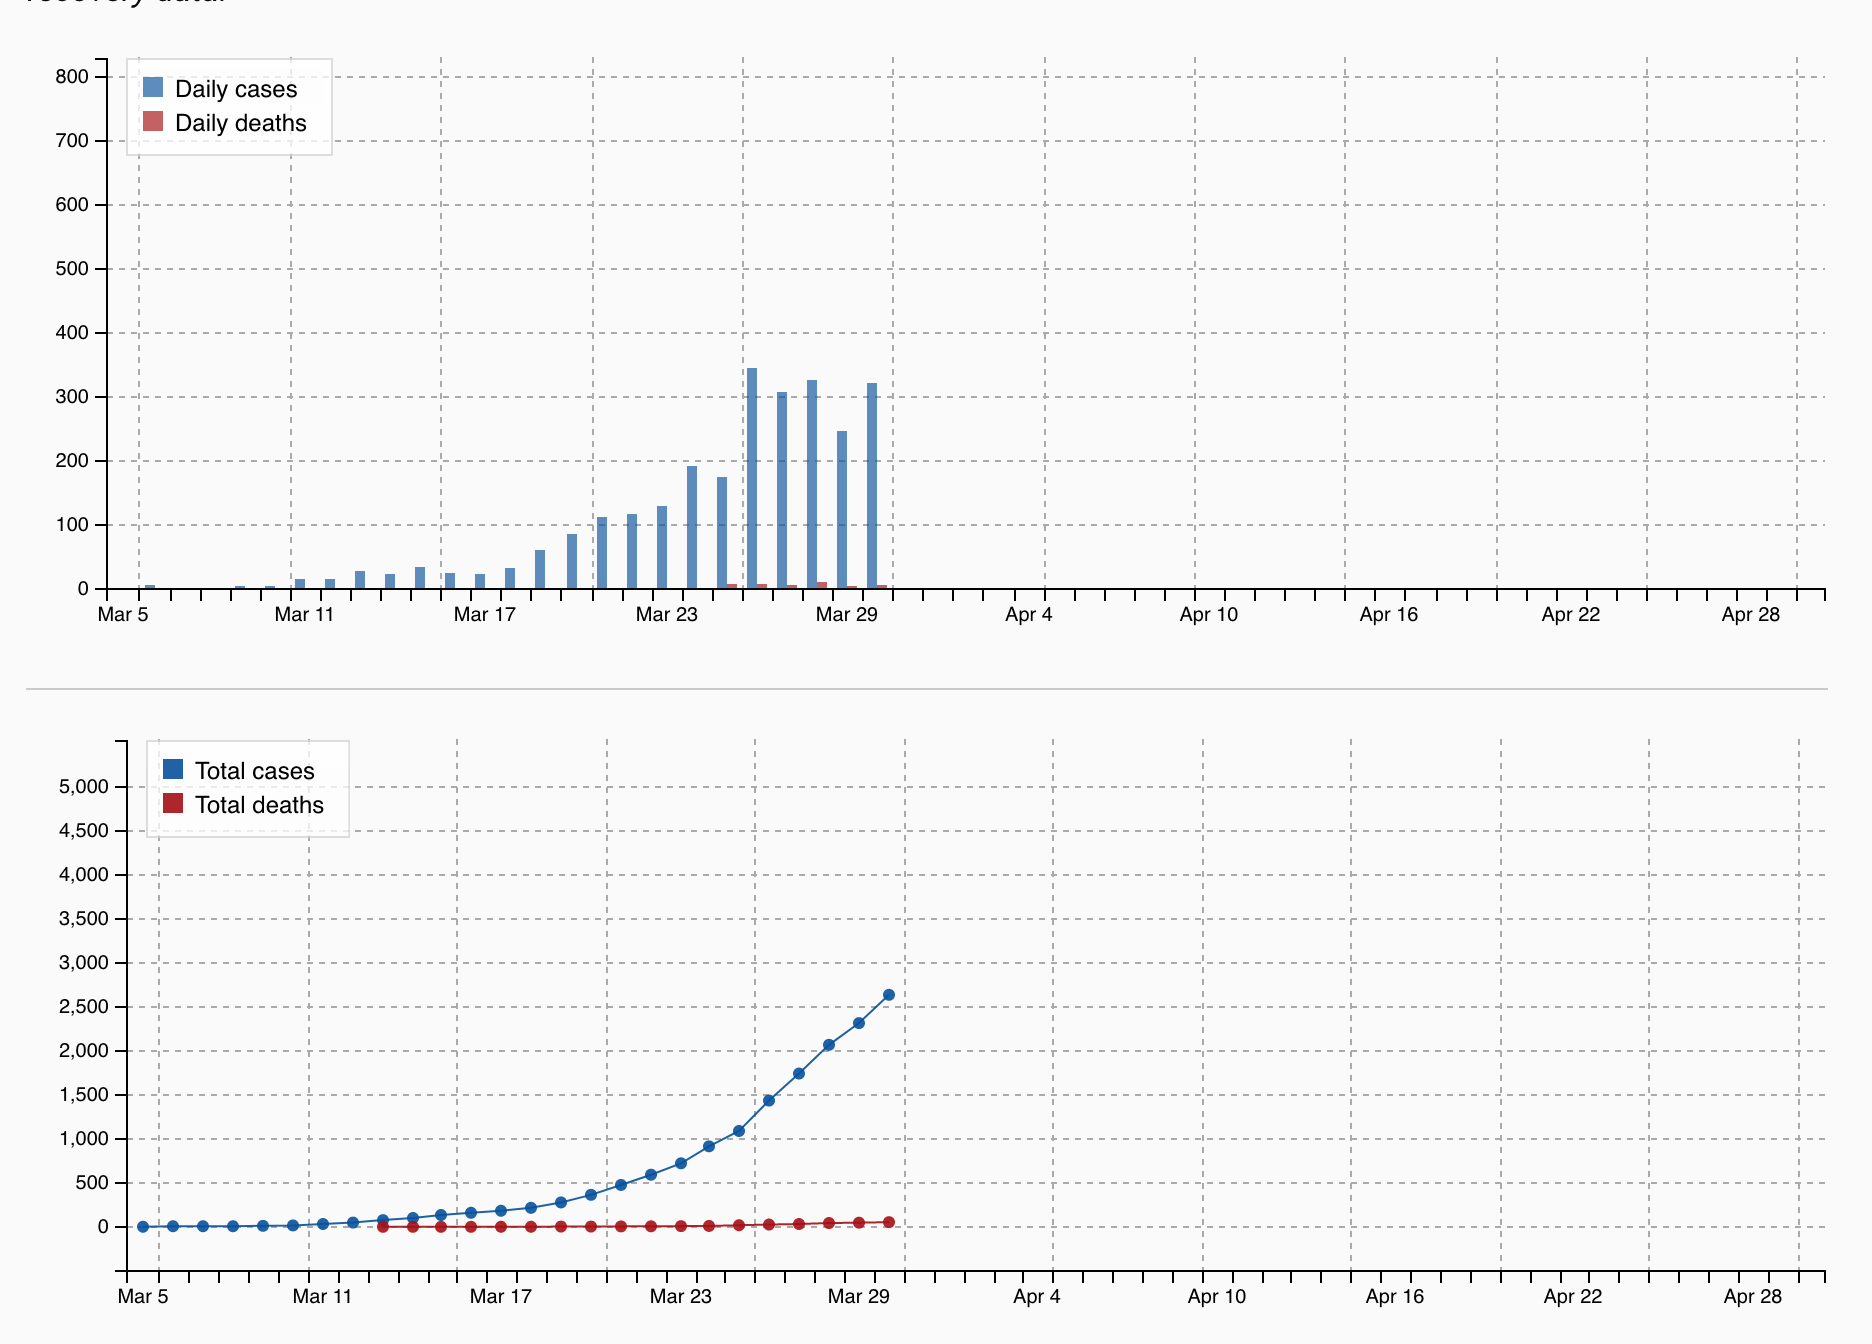
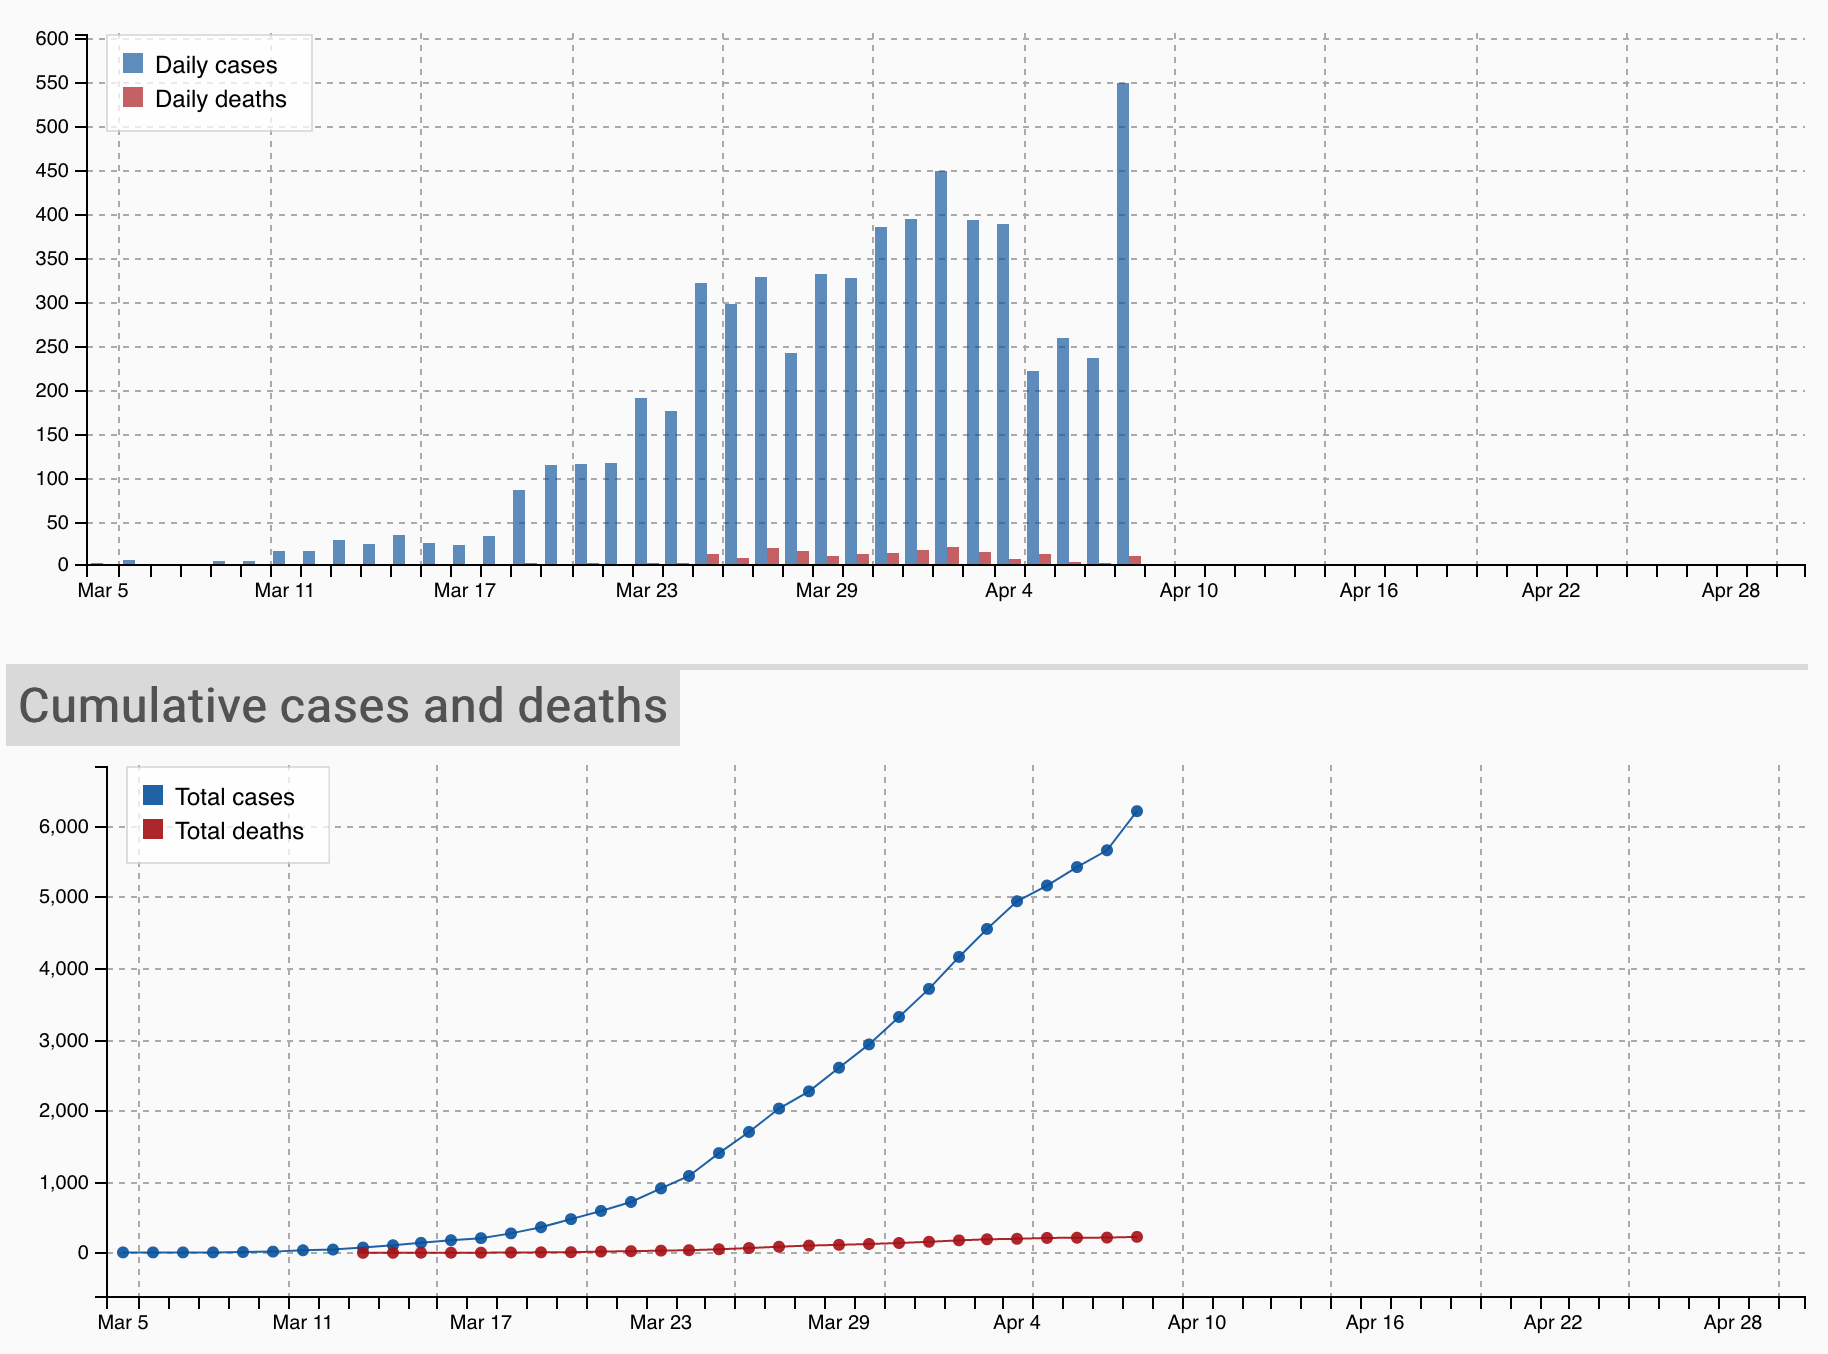
Denver Post data updated with changes made to reporting on April 9

Changed region(s): [[0.0, 0.0312, 0.9978, 1.0], [0.5301, 0.5938, 0.6236, 0.6875], [0.2183, 0.0312, 0.2495, 0.0625]]

diff --git a/Datasets/COVID-19/DenverPostPlot/README.md b/Datasets/COVID-19/DenverPostPlot/README.md
@@ -1,7 +1,7 @@
 # Data and plots on new daily cases of COVID-19 in Colorado  
 
 The data here were read and entered (by hand) from 
-[https://www.denverpost.com/2020/03/06/coronavirus-map-colorado/](https://www.denverpost.com/2020/03/06/coronavirus-map-colorado/), 
+[https://www.denverpost.com/2020/03/06/coronavirus-map-colorado/][DenverPostPageLink], 
 accessed periodically throughout March of 2020.
 
 Data like these could be used to partially reconstruct a plot like the one shown below, which is a screenshot taken from the webpage above on March 21, 2020.
@@ -14,5 +14,22 @@ Starting around March 30th, the data were displayed in two separate plots as fol
 ![COVID-19 cases over time in Colorado, second example](COVID-19_DenverPost_SecondExample.png)
 
 
+## Note about data revision on April 9th:
+On April 9th, the following note appeared on the [Denver Post page][DenverPostPageLink]:
+> A note about the data released by the Colorado Department of Public Health and Environment on April 9:
+
+> "You’ll notice a large spike in today’s case summary for Colorado. This is due to cases & deaths that occurred days and weeks prior, but not reported to the state until today. This could make it appear as though there are false spikes in day-to-day cases. [https://t.co/bnCHdYAtHA](https://t.co/bnCHdYAtHA)
+
+> — Colorado Department of Public Health & Environment (@CDPHE) April 9, 2020"
+
+> Data updated at 5:12 PM Apr 9
+
+> Note: We have changed the way we present the daily data to match the Colorado Department of Public Health and Environment's revised figures. Reported data is through the previous day, which is reflected on the charts. Not all cumulative cases are active — the state has not released recovery data. Source for all data is the [CDPHE](https://www.colorado.gov/pacific/cdphe/2019-novel-coronavirus).
+
+
 ## Question:
 How could we use the data here to reproduce the plots shown?
+
+
+
+[DenverPostPageLink]: https://www.denverpost.com/2020/03/06/coronavirus-map-colorado/
